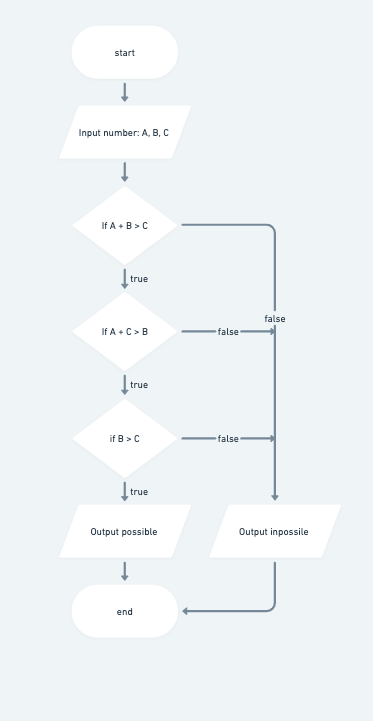
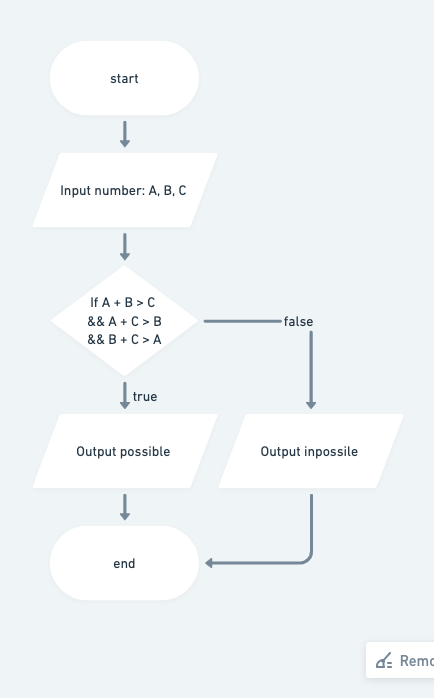
Exercise4 JS

diff --git a/js/Exercise4.js b/js/Exercise4.js
@@ -1,0 +1,9 @@
+const A = 12;
+const B = 10;
+const C = 15;
+
+if (A + B > C && A + C > B && B + C > A) {
+    console.log('Making a triangle is possible');
+} else {
+    console.log('Making a triangle is impossible');
+}
